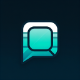
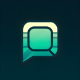
Added Settings Walkthrough and Mobile Settings Experience Improvements
Updated application icon with higher resolution and slightly tweaked colors for the base icon.

Updated mobile settings experience to allow easy collapsing of the models selection

Updated mobile models selections list styling and colors

Changed region(s): [[0.275, 0.275, 0.725, 0.775]]

diff --git a/src/libs/utils/tutorial-utils.js b/src/libs/utils/tutorial-utils.js
@@ -1,7 +1,138 @@
-import { isSmallScreen, messages, conversations, selectedConversation, contextMenuOpened } from "../state-management/state";
+import { isSmallScreen, messages, conversations, selectedConversation, contextMenuOpened, selectedModel, systemPrompt } from "../state-management/state";
 import { deleteCurrentConversation } from "../conversation-management/useConversations";
 import { driver } from "driver.js";
 import { nextTick, computed } from "vue";
+import { saveSystemPrompt, systemPrompts } from "./settings-utils";
+
+export async function runTutorialForSettings() {
+    systemPrompt.value = "Respond like Dale Gribble";
+    saveSystemPrompt('Respond like Dale Gribble');
+    selectedModel.value = 'general-config'; // use the general section for walkthrough
+
+    const settingsTutorialSteps = [
+        {
+            popover: {
+                title: 'Settings Quick Guide',
+                description: 'Welcome to The MinimalChat Configuration Page! Follow this short guided tour to learn about the configuration experience.'
+            }
+        },
+        {
+            element: '.right-panel',
+            popover: {
+                title: 'Mobile Gesture Support',
+                description: '1.) Double tap anywhere in the configuration panel to quickly collapse and expand the model selection panel to the left. <br><br>2.) Swipe to the right from the edge of the screen to quickly close the settings page.',
+                side: "top",
+                align: 'center'
+            }
+        },
+        {
+            element: '.left-panel',
+            popover: {
+                title: 'Model Selection Panel',
+                description: 'Quickly select different models. The configuration panel to the right will update with the appropriate items.',
+                side: "right",
+                align: 'start'
+            }
+        },
+        {
+            element: '.left-panel ul li:nth-child(2)',
+            popover: {
+                title: 'Model Groups',
+                description: 'Models of the same provider are grouped together for better organization. Click on a group to expand or collapse it.',
+                side: "right",
+                align: 'start'
+            }
+        },
+        {
+            element: '.left-panel ul li:nth-child(1)',
+            popover: {
+                title: 'General Configuration Settings',
+                description: 'The general configuration option houses settings and actions that are more MinimalChat specific.',
+                side: "right",
+                align: 'start'
+            }
+        },
+        {
+            element: '.right-panel',
+            popover: {
+                title: 'Configuration Section',
+                description: 'This section displays the configuration options for the selected model. Adjust settings like API keys, temperature, max tokens, and more.',
+                side: "left",
+                align: 'start'
+            }
+        },
+        {
+            element: '.system-prompt-container',
+            popover: {
+                title: 'System Prompt',
+                description: 'Enter a system prompt if you desire. This prompt will be used by the model to guide its responses.',
+                side: "left",
+                align: 'start'
+            }
+        },
+        {
+            element: '.saved-system-prompts',
+            popover: {
+                title: 'Saved System Prompts',
+                description: 'View and manage your saved system prompts here. Click on a prompt to select it, or click the trash icon to delete it.',
+                side: "left",
+                align: 'start'
+            }
+        },
+        {
+            element: '.control-checkbox',
+            popover: {
+                title: 'Higher Contrast Messages',
+                description: 'Enable or disable higher contrast messages for more distinction between messages. This results in a more classic message bubble design.',
+                side: "left",
+                align: 'start'
+            }
+        },
+        {
+            element: '.config-section',
+            popover: {
+                title: 'Import/Export Configuration',
+                description: 'Manage your settings by exporting them to a JSON file for backup or importing settings from a JSON file.',
+                side: "left",
+                align: 'start'
+            }
+        },
+        {
+            popover: {
+                title: 'Walkthrough Finished!',
+                description: 'Thanks for following the walkthrough!'
+            }
+        }
+    ];
+
+
+
+    const hasShownUserSettingsTutorial = JSON.parse(localStorage.getItem('hasShownUserSettingsTutorial') || false);
+
+    nextTick(async () => {
+        if (!hasShownUserSettingsTutorial) {
+            nextTick(async () => {
+                const driverObj = driver({
+                    popoverClass: 'driverjs-theme',
+                    allowClose: true,
+                    stageRadius: 18,
+                    showProgress: true,
+                    overlayOpacity: 0.75,
+                    steps: settingsTutorialSteps,
+                    onDestroyStarted: () => {
+                        driverObj.destroy();
+
+                        systemPrompt.value = "";
+                        systemPrompts.value = "";
+                        localStorage.setItem('system-prompts', "");
+                    },
+                });
+                driverObj.drive();
+                localStorage.setItem('hasShownUserSettingsTutorial', true);
+            });
+        }
+    });
+}
 
 export async function runTutortialForNewUser() {
     const hasShownUserTutorial = JSON.parse(localStorage.getItem('hasShownUserTutorial') || false);

diff --git a/src/components/SettingsDialog.vue b/src/components/SettingsDialog.vue
@@ -27,6 +27,7 @@ import {
   isSidebarVisible
 } from '@/libs/state-management/state';
 import { removeAPIEndpoints, showToast } from '@/libs/utils/general-utils';
+import { runTutorialForSettings } from '@/libs/utils/tutorial-utils';
 import {
   handleExportSettings, exportSettingsToFile, handleImportSettings, importSettings, customConfigs,
   selectedCustomConfigIndex,
@@ -139,6 +140,13 @@ watch(
   }
 );
 
+// Watch for changes in the sidebar's visibility
+watch(isSidebarOpen, (newVal) => {
+  if (newVal) {
+    runTutorialForSettings();
+  }
+});
+
 // System Prompts
 function handleDeleteSystemPrompt(index) {
   deleteSystemPrompt(index, showToast);
@@ -178,9 +186,25 @@ function swipedRight(e) {
   isSidebarOpen.value = false;
 }
 
+const lastTap = ref(0);
+function handleTouchStart(event) {
+  if (!isSmallScreen.value) {
+    return;
+  }
+
+  const currentTime = new Date().getTime();
+  const tapLength = currentTime - lastTap.value;
+
+  console.log(tapLength);
+  if (tapLength < 300 && tapLength > 0) {
+    // Double-tap detected
+    toggleSidebar();
+  }
+  lastTap.value = currentTime;
+}
+
 // Lifecycle hooks
 onMounted(() => {
-
   if (selectedModel.value === 'open-ai-format') {
     fetchAvailableModels();
   }
@@ -231,7 +255,7 @@ onMounted(() => {
         <span @click="reloadPage">
           <RefreshCcw :size="23" :stroke-width="2" />
         </span>
-        Settings | V6.1.6
+        Settings | V6.1.7
       </h2>
     </div>
     <div class="settings-container">
@@ -271,14 +295,14 @@ onMounted(() => {
         </ul>
         <div class="close-btn-wrapper">
           <button class="close-btn" @click="() => isSidebarOpen = false">
-            <Settings :stroke-width="1.5" :size="20" />&nbsp;Close
+            Close
           </button>
         </div>
       </div>
-      <div v-show="!isSidebarVisible" class="left-panel-collapsed" @click.stop="toggleSidebar">
+      <div v-show="!isSidebarVisible && isSmallScreen" class="left-panel-collapsed" @click.stop="toggleSidebar">
         <span>Open Model Selection</span>
       </div>
-      <div class="right-panel" @click="handleRightPanelClick">
+      <div class="right-panel" @touchstart="handleTouchStart">
         <div v-if="selectedModel">
           <div v-if="selectedModel.includes('general')">
             <div class="system-prompt-container">
@@ -620,9 +644,7 @@ $bottom-panel-border-color: #5f4575cf;
 
   h3 {
     margin-bottom: 15px;
-    background-color: #0e2d2ae6;
-    font-size: 16px;
-    font-weight: bold;
+    background-color: #1a4c47e6;
     text-align: left;
     position: relative;
     display: flex;
@@ -832,12 +854,12 @@ $bottom-panel-border-color: #5f4575cf;
   min-height: 98vh;
   max-width: 99vw;
 
-
   .close-btn {
     align-self: flex-end;
     padding: 10px;
+    padding-bottom: 0px;
     border: none;
-    border-bottom: 1px solid #725182b5;
+    border-bottom: 2px solid rgb(88 43 110 / 83%);
     color: white;
     cursor: pointer;
     width: 100%;
@@ -1096,13 +1118,11 @@ $bottom-panel-border-color: #5f4575cf;
     padding-left: 12px;
     padding-right: 12px;
     width: 90vw;
-    min-height: 99vh;
+    min-height: 89vh;
   }
 
   h3 {
     margin-bottom: 15px;
-    font-size: 16px;
-    font-weight: bold;
     color: #fff;
   }
 

diff --git a/src/libs/state-management/state.js b/src/libs/state-management/state.js
@@ -43,16 +43,10 @@ export const selectedConversation = ref(conversations.value[0]);
 export const abortController = ref(null);
 export const imageInput = ref(null);
 
-// Add a computed property to check the screen width
-export const isSmallScreen = computed(() => window.innerWidth <= 600);
-export const isSidebarVisible = ref(!isSmallScreen.value);
+export const isSmallScreen = ref(window.innerWidth <= 600);
+export const isSidebarVisible = ref(isSmallScreen.value);
 
-// Watch for window resize events to update the computed property
+
 window.addEventListener('resize', () => {
     isSmallScreen.value = window.innerWidth <= 600;
-    if (isSmallScreen.value) {
-        isSidebarVisible.value = false;
-    } else {
-        isSidebarVisible.value = true;
-    }
 });

diff --git a/src/views/ChatLayout.vue b/src/views/ChatLayout.vue
@@ -450,7 +450,7 @@ pre {
   transform: translateX(0%) scale(0);
   border-right: 2px solid $border-color;
   z-index: 1;
-  transition: transform 0.25s ease-in-out; // Adjusted duration and easing
+  transition: transform 0.25s ease-in-out;
   border-radius: 12px;
   opacity: 1;
   border: 2px solid #083e35d9;
@@ -463,7 +463,7 @@ pre {
     width: 100vw;
     height: 100vh;
     top: 0;
-    transition: transform 0.25s ease-in-out; // Adjusted duration and easing
+    transition: transform 0.25s ease-in-out;
   }
 
   &.sidebar-right {

diff --git a/index.html b/index.html
@@ -8,6 +8,8 @@
   <meta name="author" content="Tanner Middleton" />
   <meta name="description" content="An open source minimal LLM chat web application." />
   <link rel="icon" type="image/png" href="/images/web/icon-512-maskable.png" sizes="512x512" />
+  <link rel="icon" type="image/png" sizes="32x32" href="/images/favicon-32x32.png">
+  <link rel="icon" type="image/png" sizes="16x16" href="/images/favicon-16x16.png">
   <title>MinimalChat</title>
 </head>
 

diff --git a/README.md b/README.md
@@ -1,6 +1,6 @@
 # [**MinimalChat: A Simple and Customizable LLM Chat App (public site link)**](https://minimalchat.app)
 
-![Version](https://img.shields.io/badge/version-6.1.6-blue)
+![Version](https://img.shields.io/badge/version-6.1.7-blue)
 ![License](https://img.shields.io/badge/license-MIT-green)
 ![Website](https://img.shields.io/website?url=https%3A%2F%2Fminimalchat.app)
 ![GitHub repo size](https://img.shields.io/github/repo-size/fingerthief/minimal-chat)
